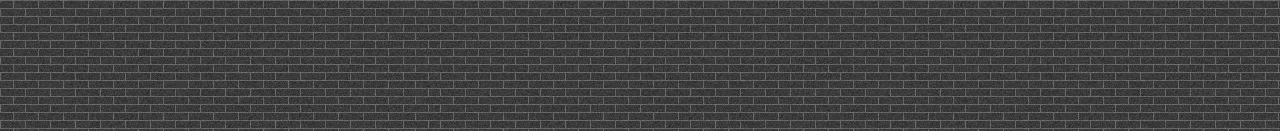
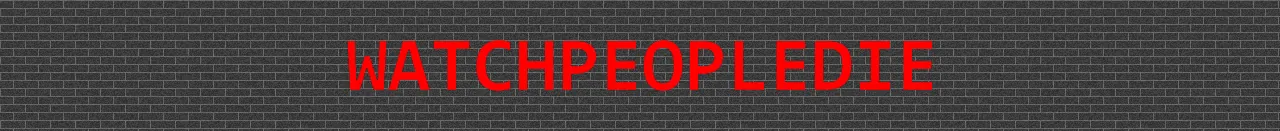
vxc

Changed region(s): [[0.25, 0.3053, 0.75, 0.7023]]

diff --git a/files/templates/header.html b/files/templates/header.html
@@ -35,7 +35,7 @@
 			
 			{% if sub %}
 				<a href="/h/{{sub.name}}" class="font-weight-bold ml-2 flex-grow-1 mt-1" style="font-size:max(14px,1.2vw)">/h/{{sub.name}}</a>
-			{% elif SITE_NAME != 'PCM' %}
+			{% elif SITE_NAME not in ('PCM','WPD') %}
 				<style>
 					@media (min-width: 350px) {
 						#logo {

diff --git a/files/templates/default.html b/files/templates/default.html
@@ -254,7 +254,7 @@
 			</a>
 		{% else %}
 			<a href="/">
-				<img alt="site banner" src="/assets/images/{{SITE_NAME}}/banner.webp?v=1043" width="100%">
+				<img alt="site banner" src="/assets/images/{{SITE_NAME}}/banner.webp?v=1044" width="100%">
 			</a>	
 		{% endif %}
 	{% endif %}

diff --git a/files/classes/sub.py b/files/classes/sub.py
@@ -38,7 +38,7 @@ class Sub(Base):
 	@lazy
 	def banner_url(self):
 		if self.bannerurl: return SITE_FULL + self.bannerurl
-		return f'/assets/images/{SITE_NAME}/banner.webp?v=1043'
+		return f'/assets/images/{SITE_NAME}/banner.webp?v=1044'
 
 	@property
 	@lazy
